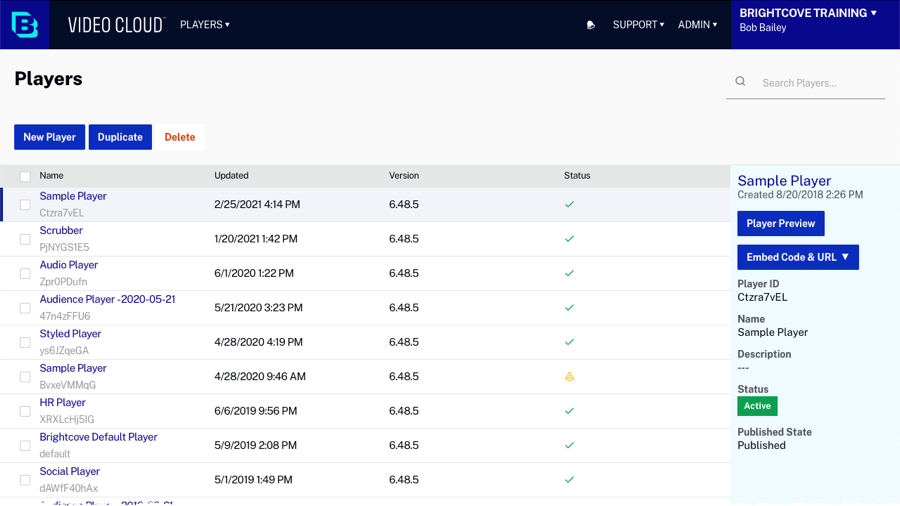
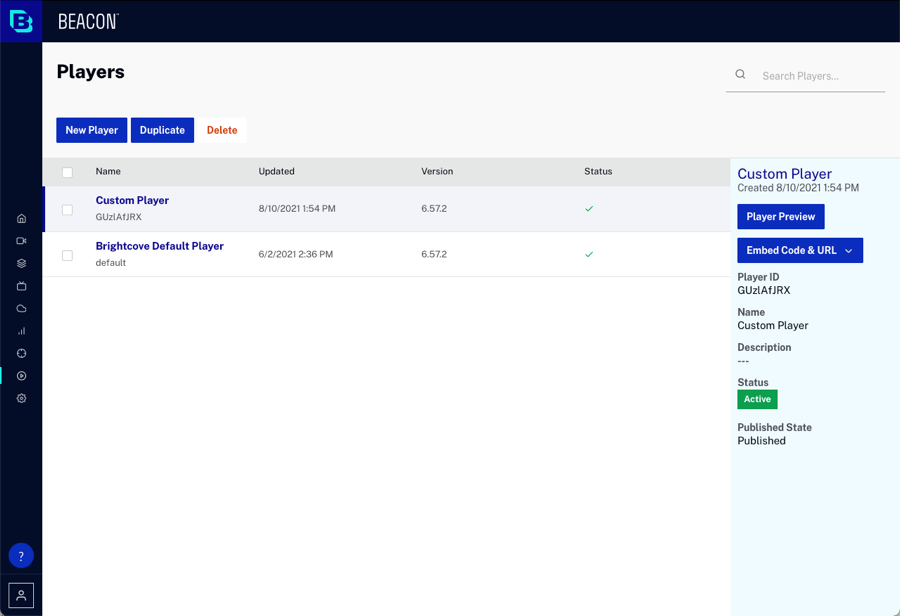
updates

diff --git a/_site/media/working-360deg-videos.html b/_site/media/working-360deg-videos.html
@@ -1304,9 +1304,9 @@ function doGTranslate(lang_pair) {if(lang_pair.value)lang_pair=lang_pair.value;i
 </style>
   <section class="bcls-section">
     <h1>Working with 360° Videos</h1>
-    <summary>In this topic you will learn how to work with 360-degree videos in Video Cloud.</summary>
+    <summary>In this topic you will learn how to work with 360-degree videos in Brightcove Beacon.</summary>
     <p>360° videos are video recordings where a view in every direction is recorded at the same time. 360° videos are shot using an omnidirectional camera or a collection of cameras. During playback the viewer has control of the viewing direction like a panorama.</p>
-    <p>Video Cloud supports uploading and publishing of 360° videos. A sample 360° video is shown below. Once you play the video, you can use either your mouse or the arrow keys to control the view on the desktop, or the gyroscope if viewing on a mobile device.</p>
+    <p>Brightcove Beacon supports uploading and publishing of 360° videos. A sample 360° video is shown below. Once you play the video, you can use either your mouse or the arrow keys to control the view on the desktop, or the gyroscope if viewing on a mobile device.</p>
     <video-js data-video-id="5269424457001" data-account="1752604059001" data-player="Sy6GVYJz" data-embed="default" data-application-id="" class="video-js" controls="" width="300" height="150" playsinline="">&nbsp;</video-js>
     <script src="//players.brightcove.net/1752604059001/Sy6GVYJz_default/index.min.js"></script>
     <p>For information on browser support and known issues with the 360°/VR video plugin, see the <a href="https://player.support.brightcove.com/plugins/360degvr-video-plugin.html">360º/VR Video Plugin</a> topic.</p>
@@ -1317,7 +1317,7 @@ function doGTranslate(lang_pair) {if(lang_pair.value)lang_pair=lang_pair.value;i
   </section>
   <section class="bcls-section">
     <h2 id="before">Before you upload</h2>
-    <p>Before you upload a 360° video to Video Cloud, the video file needs to include certain metadata for 360° playback to be enabled. The Spatial Media Metadata Injector application can be used to add metadata to a video file indicating that the file contains 360° video. If the 360° video was recorded on a camera that doesn't automatically add the 360° metadata, follow these steps to add it:</p>
+    <p>Before you upload a 360° video to Brightcove Beacon, the video file needs to include certain metadata for 360° playback to be enabled. The Spatial Media Metadata Injector application can be used to add metadata to a video file indicating that the file contains 360° video. If the 360° video was recorded on a camera that doesn't automatically add the 360° metadata, follow these steps to add it:</p>
     <ol class="bcls-tasklist-restart">
       <li>Download the 360° Video Metadata app for <a href="https://github.com/google/spatial-media/releases/download/v2.0/360.Video.Metadata.Tool.mac.zip">Mac</a> or <a href="https://github.com/google/spatial-media/releases/download/v2.0/360.Video.Metadata.Tool.win.zip">Windows</a>.</li>
       <li>Install and then open the 360° Video Metadata app.</li>
@@ -1325,7 +1325,7 @@ function doGTranslate(lang_pair) {if(lang_pair.value)lang_pair=lang_pair.value;i
       <li>Click <strong>Inject metadata</strong>.</li>
       <li>Enter a name for the new file and then click <strong>Save</strong>.</li>
     </ol>
-    <p>The video is now ready to be uploaded to Video Cloud.</p>
+    <p>The video is now ready to be uploaded.</p>
   </section>
   <section class="bcls-section">
     <h2 id="upload">Uploading 360° videos</h2>
@@ -1341,7 +1341,7 @@ function doGTranslate(lang_pair) {if(lang_pair.value)lang_pair=lang_pair.value;i
   </section>
   <section class="bcls-section">
     <h2 id="props">360° video properties</h2>
-    <p>All Video Cloud videos have a set of properties that can be set using Video Cloud Studio or programmatically using the CMS API. Note that not all of the properties are exposed in Video Cloud Studio.</p>
+    <p>All Brightcove Beacon videos have a set of properties that can be set using Beacon Studio or programmatically using the CMS API. Note that not all of the properties are exposed in Beacon Studio.</p>
     <aside class="bcls-aside bcls-aside--information">Note: For a list of all the video properties, see the <a href="https://apis.support.brightcove.com/cms/references/cms-api-video-fields-reference.html">CMS API Video Fields Reference</a> document.</aside>
     <p>To indicate that a video is a 360° video, use the Media module to edit the video properties and set the <strong>Video Projection</strong> property to <strong>360°</strong>.</p>
     <aside class="bcls-aside bcls-aside--information">Note: The <span translate="No">CMS API</span> can also be used to set the <strong><code translate="No">projection</code></strong> property to <strong>equirectangular</strong>. For more information, see <a href="https://apis.support.brightcove.com/cms/managing-videos/setting-360-degree-video-properties-cms-api.html">Setting 360° Video Properties with the CMS API</a> document.</aside>

diff --git a/media/working-360deg-videos.html b/media/working-360deg-videos.html
@@ -11,9 +11,9 @@ parent: Managing Media
 </style>
   <section class="bcls-section">
     <h1>Working with 360° Videos</h1>
-    <summary>In this topic you will learn how to work with 360-degree videos in Video Cloud.</summary>
+    <summary>In this topic you will learn how to work with 360-degree videos in Brightcove Beacon.</summary>
     <p>360° videos are video recordings where a view in every direction is recorded at the same time. 360° videos are shot using an omnidirectional camera or a collection of cameras. During playback the viewer has control of the viewing direction like a panorama.</p>
-    <p>Video Cloud supports uploading and publishing of 360° videos. A sample 360° video is shown below. Once you play the video, you can use either your mouse or the arrow keys to control the view on the desktop, or the gyroscope if viewing on a mobile device.</p>
+    <p>Brightcove Beacon supports uploading and publishing of 360° videos. A sample 360° video is shown below. Once you play the video, you can use either your mouse or the arrow keys to control the view on the desktop, or the gyroscope if viewing on a mobile device.</p>
     <video-js data-video-id="5269424457001" data-account="1752604059001" data-player="Sy6GVYJz" data-embed="default" data-application-id="" class="video-js" controls="" width="300" height="150" playsinline="">&nbsp;</video-js>
     <script src="//players.brightcove.net/1752604059001/Sy6GVYJz_default/index.min.js"></script>
     <p>For information on browser support and known issues with the 360°/VR video plugin, see the <a href="https://player.support.brightcove.com/plugins/360degvr-video-plugin.html">360º/VR Video Plugin</a> topic.</p>
@@ -24,7 +24,7 @@ parent: Managing Media
   </section>
   <section class="bcls-section">
     <h2 id="before">Before you upload</h2>
-    <p>Before you upload a 360° video to Video Cloud, the video file needs to include certain metadata for 360° playback to be enabled. The Spatial Media Metadata Injector application can be used to add metadata to a video file indicating that the file contains 360° video. If the 360° video was recorded on a camera that doesn't automatically add the 360° metadata, follow these steps to add it:</p>
+    <p>Before you upload a 360° video to Brightcove Beacon, the video file needs to include certain metadata for 360° playback to be enabled. The Spatial Media Metadata Injector application can be used to add metadata to a video file indicating that the file contains 360° video. If the 360° video was recorded on a camera that doesn't automatically add the 360° metadata, follow these steps to add it:</p>
     <ol class="bcls-tasklist-restart">
       <li>Download the 360° Video Metadata app for <a href="https://github.com/google/spatial-media/releases/download/v2.0/360.Video.Metadata.Tool.mac.zip">Mac</a> or <a href="https://github.com/google/spatial-media/releases/download/v2.0/360.Video.Metadata.Tool.win.zip">Windows</a>.</li>
       <li>Install and then open the 360° Video Metadata app.</li>
@@ -32,7 +32,7 @@ parent: Managing Media
       <li>Click <strong>Inject metadata</strong>.</li>
       <li>Enter a name for the new file and then click <strong>Save</strong>.</li>
     </ol>
-    <p>The video is now ready to be uploaded to Video Cloud.</p>
+    <p>The video is now ready to be uploaded.</p>
   </section>
   <section class="bcls-section">
     <h2 id="upload">Uploading 360° videos</h2>
@@ -48,7 +48,7 @@ parent: Managing Media
   </section>
   <section class="bcls-section">
     <h2 id="props">360° video properties</h2>
-    <p>All Video Cloud videos have a set of properties that can be set using Video Cloud Studio or programmatically using the CMS API. Note that not all of the properties are exposed in Video Cloud Studio.</p>
+    <p>All Brightcove Beacon videos have a set of properties that can be set using Beacon Studio or programmatically using the CMS API. Note that not all of the properties are exposed in Beacon Studio.</p>
     <aside class="bcls-aside bcls-aside--information">Note: For a list of all the video properties, see the <a href="https://apis.support.brightcove.com/cms/references/cms-api-video-fields-reference.html">CMS API Video Fields Reference</a> document.</aside>
     <p>To indicate that a video is a 360° video, use the Media module to edit the video properties and set the <strong>Video Projection</strong> property to <strong>360°</strong>.</p>
     <aside class="bcls-aside bcls-aside--information">Note: The <span translate="No">CMS API</span> can also be used to set the <strong><code translate="No">projection</code></strong> property to <strong>equirectangular</strong>. For more information, see <a href="https://apis.support.brightcove.com/cms/managing-videos/setting-360-degree-video-properties-cms-api.html">Setting 360° Video Properties with the CMS API</a> document.</aside>

diff --git a/_site/social/getting-started-brightcove-social.html b/_site/social/getting-started-brightcove-social.html
@@ -1301,7 +1301,7 @@ function doGTranslate(lang_pair) {if(lang_pair.value)lang_pair=lang_pair.value;i
   <section class="bcls-section">
     <div class="training-video-player-ipx" data-experience="5a73630f7afd7a00101bc1b5" data-video-ids="5012341126001">&nbsp;</div>
     <script src="https://players.brightcove.net/20318290001/experience_5a73630f7afd7a00101bc1b5/live.js"></script>
-    <p>To access Brightcove Social, login to Video Cloud Studio and click <strong>Social</strong> in the navigation header. A list of your published videos will be displayed by default.</p>
+    <p>To access Brightcove Social, login to Beacon Studio and click <strong>Social</strong> in the primary navigation. A list of your published videos will be displayed by default.</p>
     <figure class="bcls-figure"><img class="bcls-image--no-border" alt="" src="/assets/images/social/node16342-social-module.png" /></figure>
     <p>Using Brightcove Social you can:</p>
     <ul>

diff --git a/social/getting-started-brightcove-social.html b/social/getting-started-brightcove-social.html
@@ -9,7 +9,7 @@ parent: Social Sharing
   <section class="bcls-section">
     <div class="training-video-player-ipx" data-experience="5a73630f7afd7a00101bc1b5" data-video-ids="5012341126001">&nbsp;</div>
     <script src="https://players.brightcove.net/20318290001/experience_5a73630f7afd7a00101bc1b5/live.js"></script>
-    <p>To access Brightcove Social, login to Video Cloud Studio and click <strong>Social</strong> in the navigation header. A list of your published videos will be displayed by default.</p>
+    <p>To access Brightcove Social, login to Beacon Studio and click <strong>Social</strong> in the primary navigation. A list of your published videos will be displayed by default.</p>
     <figure class="bcls-figure"><img class="bcls-image--no-border" alt="" src="/assets/images/social/node16342-social-module.png" /></figure>
     <p>Using Brightcove Social you can:</p>
     <ul>

diff --git a/analytics/help/custom.html b/analytics/help/custom.html
@@ -12,7 +12,7 @@ layout: help
           <section class="bcls-section">
             <p>Data in custom reports is based on the account's reporting time zone; to configure your time zone:</p>
             <ol class="bcls-tasklist-restart">
-              <li>In Video Cloud Studio, expand the <strong>Admin</strong> dropdown.</li>
+              <li>In Beacon Studio, expand the <strong>Admin</strong> dropdown.</li>
               <li>Select <strong>Account Settings</strong>.</li>
               <li>Set your <strong>Current Time Zone</strong>.</li>
               <li>Click <span class="button-blue">Save</span>.</li>

diff --git a/_site/analytics/help/custom.html b/_site/analytics/help/custom.html
@@ -38,7 +38,7 @@
           <section class="bcls-section">
             <p>Data in custom reports is based on the account's reporting time zone; to configure your time zone:</p>
             <ol class="bcls-tasklist-restart">
-              <li>In Video Cloud Studio, expand the <strong>Admin</strong> dropdown.</li>
+              <li>In Beacon Studio, expand the <strong>Admin</strong> dropdown.</li>
               <li>Select <strong>Account Settings</strong>.</li>
               <li>Set your <strong>Current Time Zone</strong>.</li>
               <li>Click <span class="button-blue">Save</span>.</li>

diff --git a/players/help/detail.html b/players/help/detail.html
@@ -399,7 +399,7 @@ layout: help
                 <p>In Adobe Analytics, create Traffic Variables.</p>
                 <p>Every Brightcove parameter that will be recorded must be created as a Traffic Variable.</p>
               </li>
-              <li>Return to Video Cloud Studio.</li>
+              <li>Return to Beacon Studio.</li>
               <li>Check <strong>Enable Adobe Analytics</strong>.</li>
               <li>Enter your Adobe account information.
                 <ul>

diff --git a/_site/players/help/detail.html b/_site/players/help/detail.html
@@ -425,7 +425,7 @@
                 <p>In Adobe Analytics, create Traffic Variables.</p>
                 <p>Every Brightcove parameter that will be recorded must be created as a Traffic Variable.</p>
               </li>
-              <li>Return to Video Cloud Studio.</li>
+              <li>Return to Beacon Studio.</li>
               <li>Check <strong>Enable Adobe Analytics</strong>.</li>
               <li>Enter your Adobe account information.
                 <ul>

diff --git a/_site/analytics/creating-custom-analytics-reports.html b/_site/analytics/creating-custom-analytics-reports.html
@@ -1538,7 +1538,7 @@ function doGTranslate(lang_pair) {if(lang_pair.value)lang_pair=lang_pair.value;i
 
 <hr>
 <div id="last_updated" class="last-updated">
-  Page last updated on 09 Jul 2021
+  Page last updated on 10 Aug 2021
 </div>
 
 

diff --git a/_site/general/overview-context-aware-encoding.html b/_site/general/overview-context-aware-encoding.html
@@ -1384,7 +1384,7 @@ function doGTranslate(lang_pair) {if(lang_pair.value)lang_pair=lang_pair.value;i
 
 <hr>
 <div id="last_updated" class="last-updated">
-  Page last updated on 25 Mar 2021
+  Page last updated on 10 Aug 2021
 </div>
 
 

diff --git a/_site/general/overview-dynamic-delivery.html b/_site/general/overview-dynamic-delivery.html
@@ -1495,7 +1495,7 @@ function doGTranslate(lang_pair) {if(lang_pair.value)lang_pair=lang_pair.value;i
 
 <hr>
 <div id="last_updated" class="last-updated">
-  Page last updated on 25 Mar 2021
+  Page last updated on 10 Aug 2021
 </div>
 
 

diff --git a/_site/getting-started/getting-started-beacon-studio.html b/_site/getting-started/getting-started-beacon-studio.html
@@ -1398,7 +1398,7 @@ function doGTranslate(lang_pair) {if(lang_pair.value)lang_pair=lang_pair.value;i
 
 <hr>
 <div id="last_updated" class="last-updated">
-  Page last updated on 09 Aug 2021
+  Page last updated on 10 Aug 2021
 </div>
 
 
